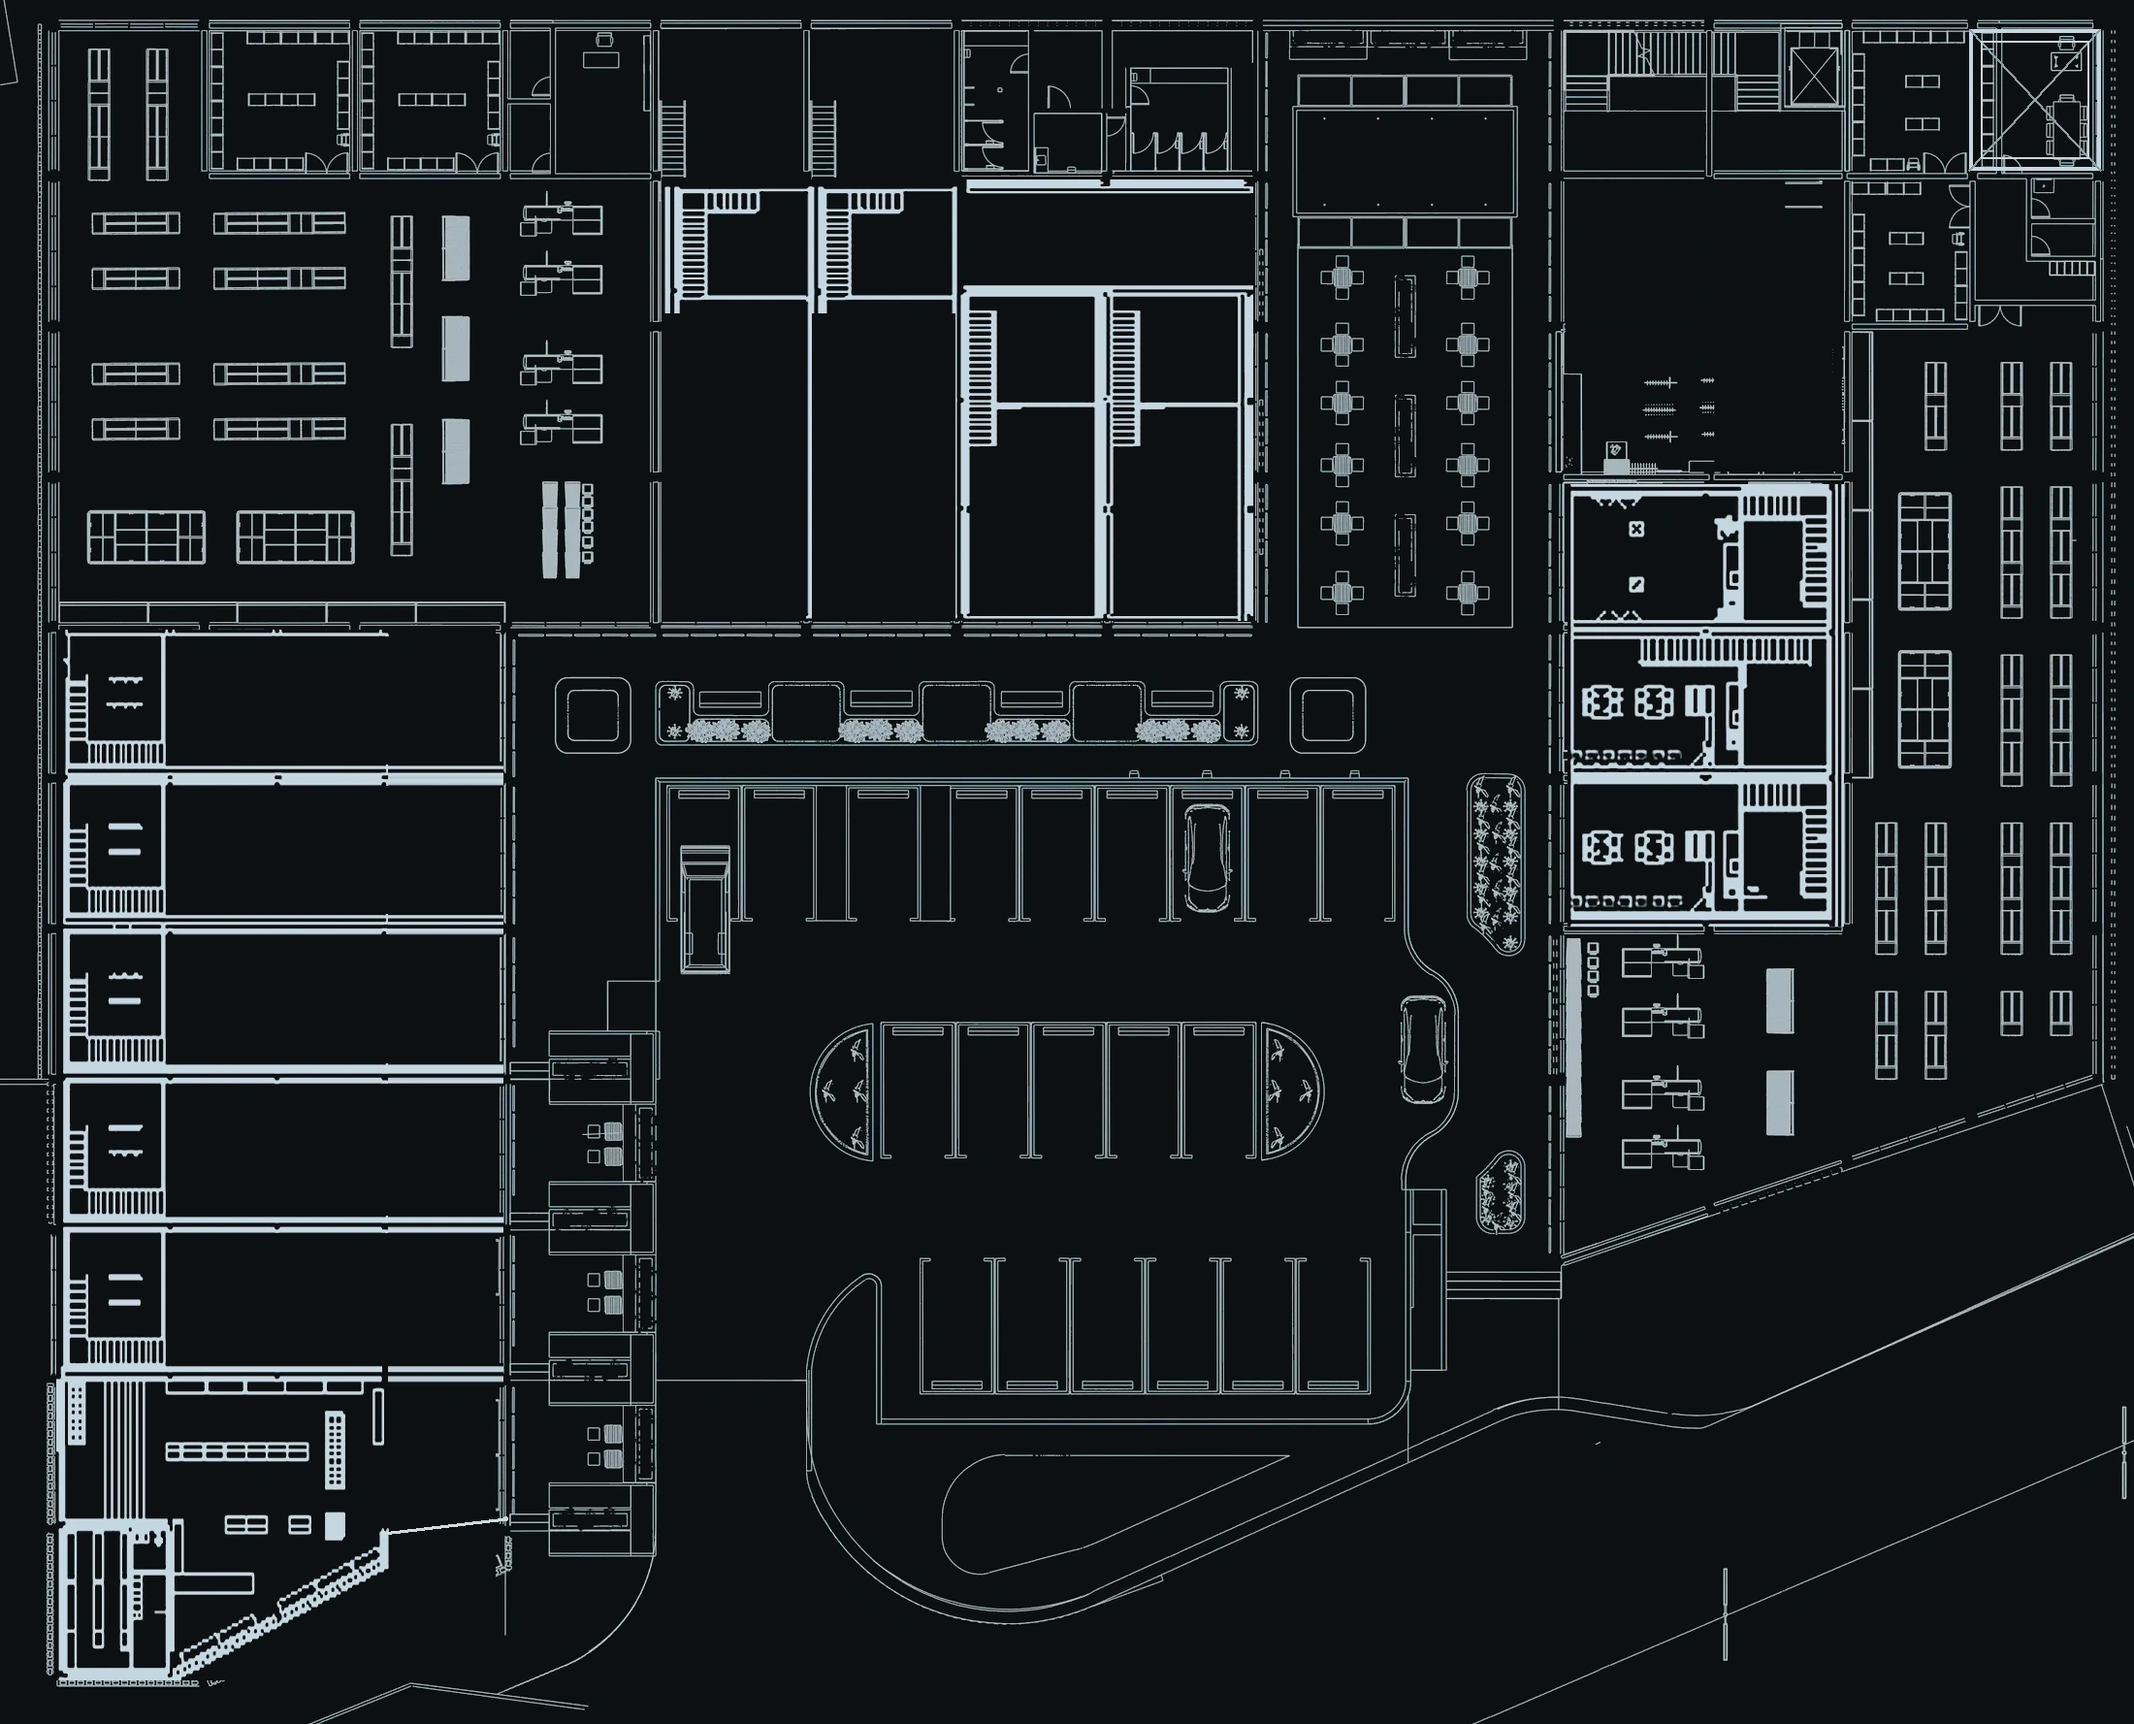
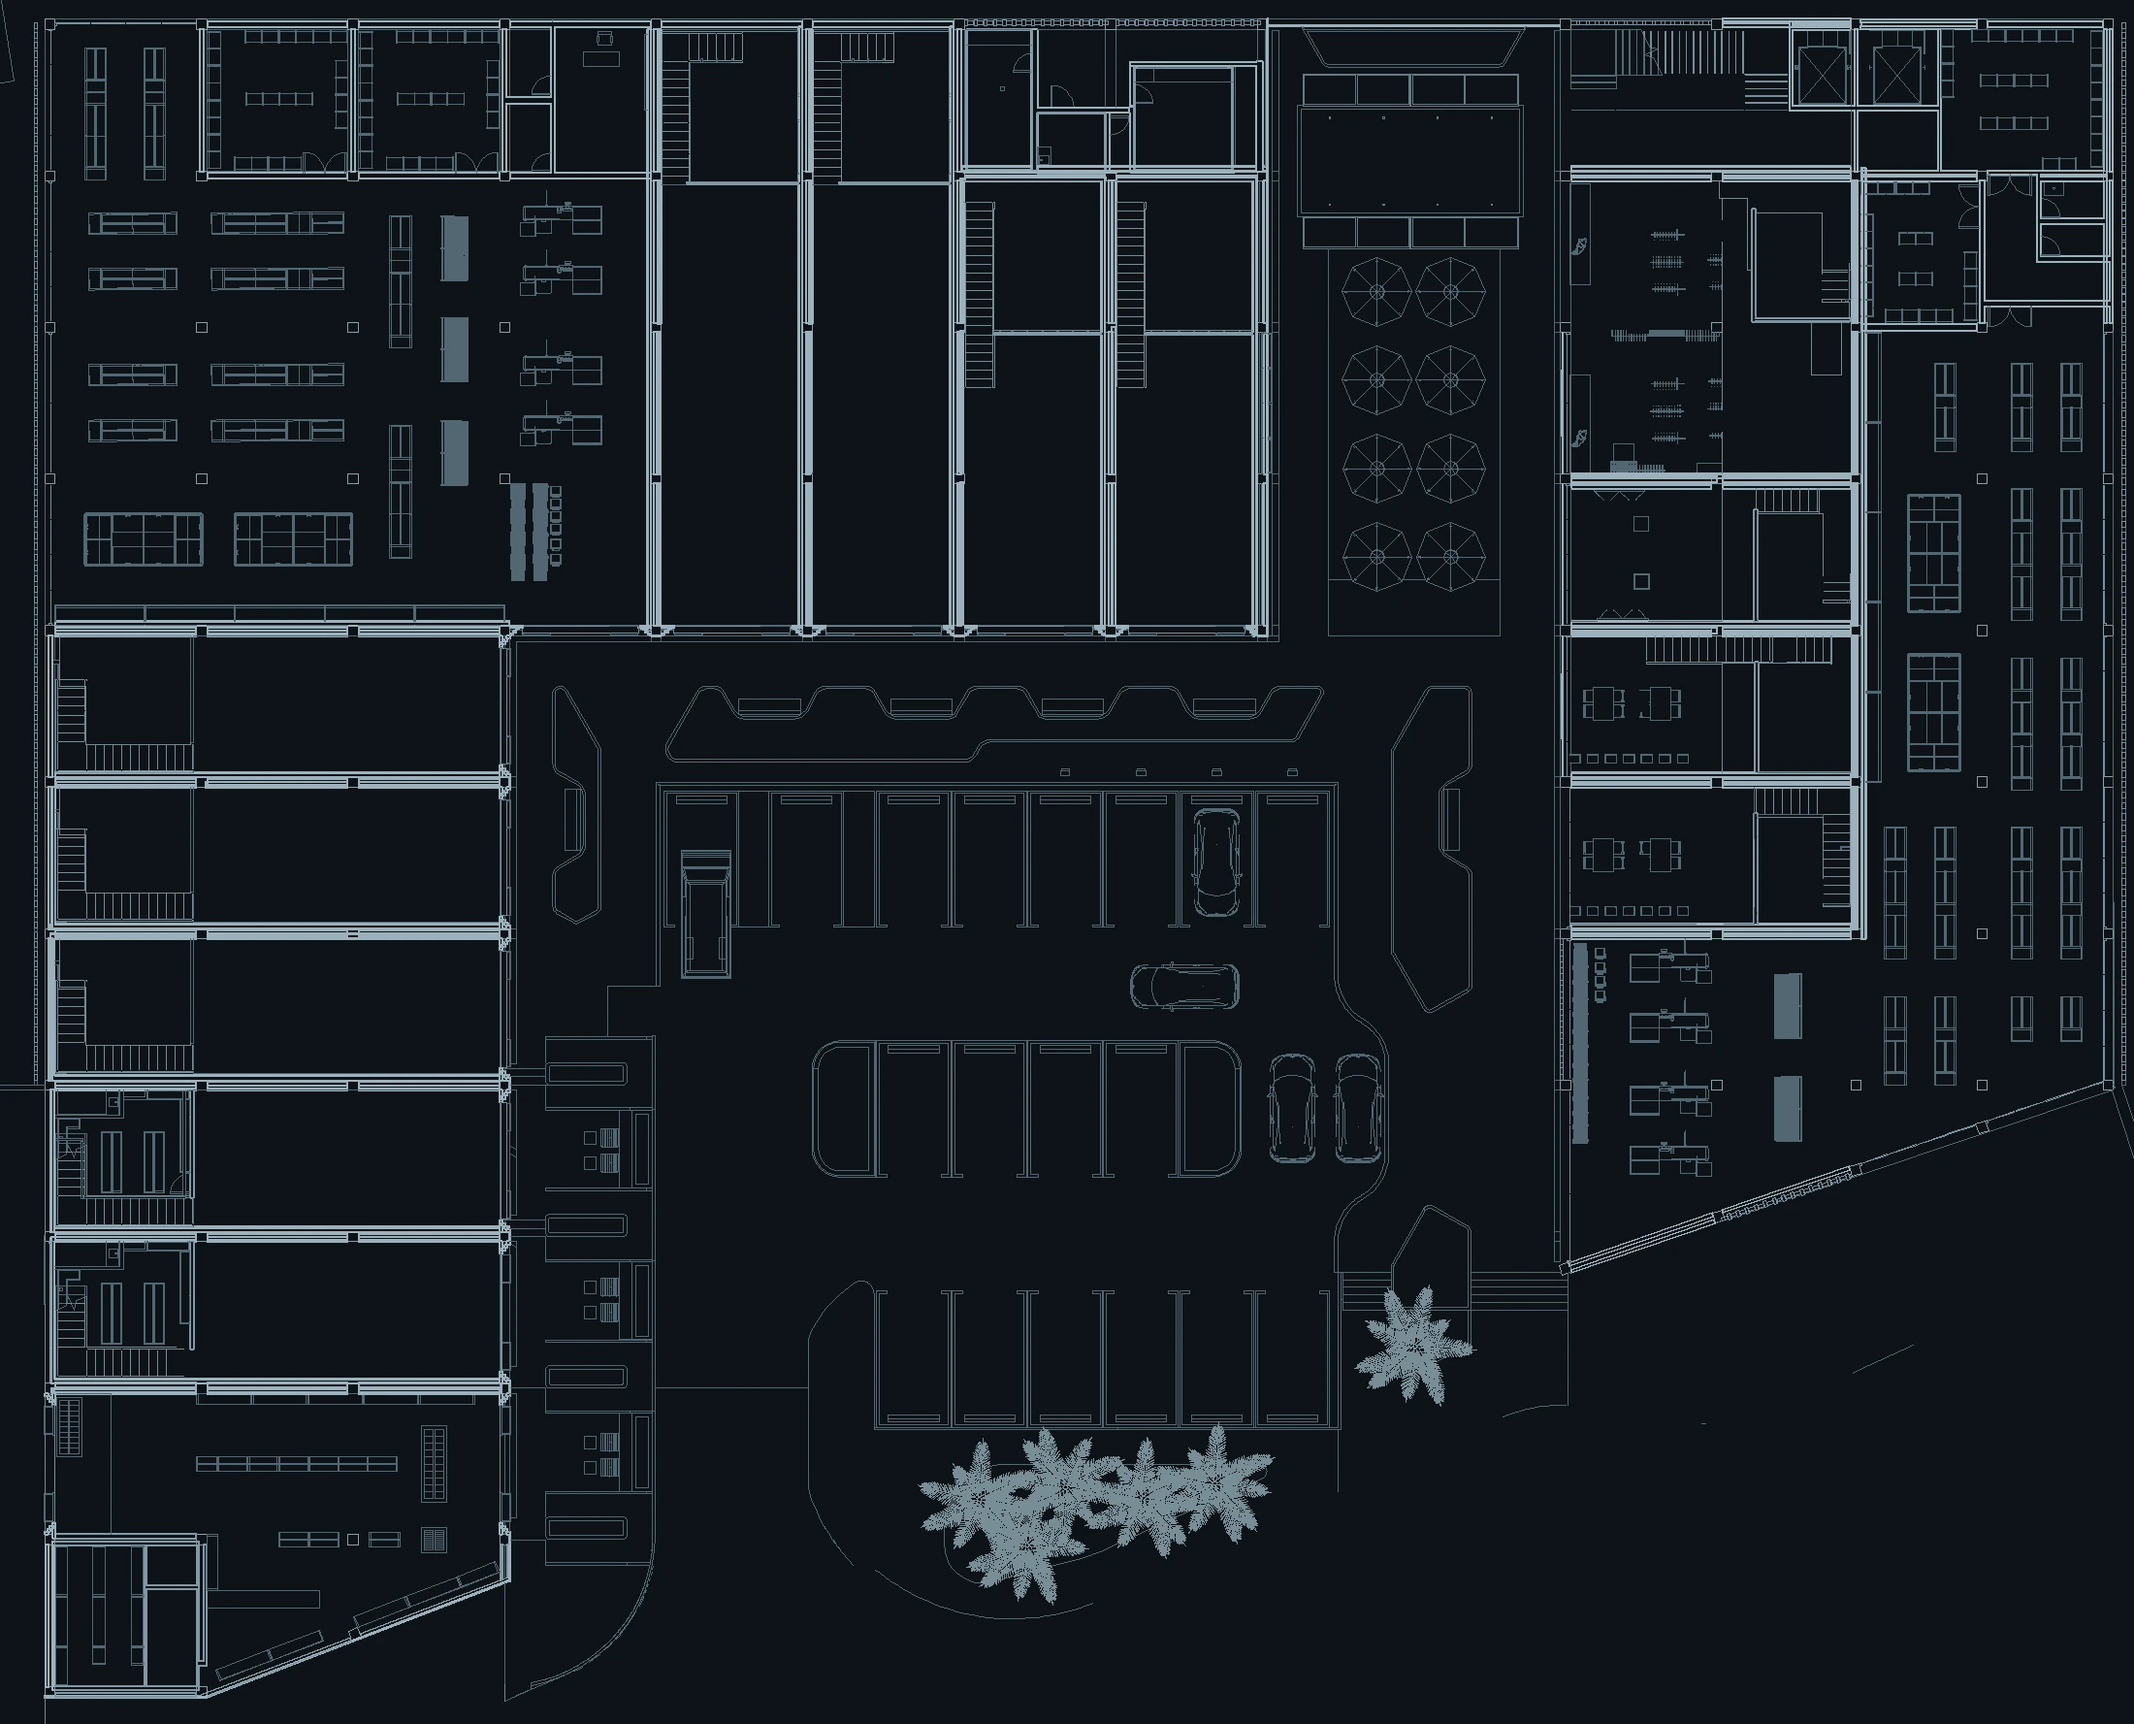
Actualizar planta interactiva de Rivers Mall con el DWG del 17 de noviembre

diff --git a/script.js b/script.js
@@ -93,12 +93,12 @@ const PANORAMAS = { of1: 'oficina-360.html', pkg: 'espacio-publico-360.html' };
 /* DWG floor-plan coordinates, aligned before the clockwise display rotation. */
 const R = (x1, y1, x2, y2) => [[x1, y1], [x2, y1], [x2, y2], [x1, y2]];
 const geoP1 = {
-  ara: { pts: [[65,60],[10,60],[10,11],[396,11],[457,214],[345,214],[345,105],[65,105]], c: [240,52] },
+  ara: { pts: [[64,60],[9,60],[9,9],[397,9],[464,209],[344,209],[344,101],[64,101]], c: [240,52] },
   asc: { pts: [[10,10],[60,10],[60,60],[10,60]], c: [35,35] },
-  '1': { pts: R(285,106,340,209) },
-  '2': { pts: R(229,106,285,209) },
-  '3': { pts: R(175,106,229,209) },
-  '4': { pts: R(65,106,175,209) },
+  '1': { pts: R(286,101,342,209) },
+  '2': { pts: R(230,101,286,209) },
+  '3': { pts: R(176,101,230,209) },
+  '4': { pts: R(64,101,176,209) },
   rest: { pts: R(10,215,229,309) },
   '5': { pts: R(65,320,229,376) },
   '6': { pts: R(65,376,229,430) },
@@ -110,7 +110,7 @@ const geoP1 = {
   '11': { pts: R(340,595,395,763) },
   '12': { pts: R(395,595,450,763) },
   '13': { pts: R(450,595,505,763) },
-  '14': { pts: [[505,595],[555,595],[560,640],[616,735],[616,763],[505,763]], c: [545,680] },
+  '14': { pts: [[507,595],[577,595],[619,705],[619,763],[507,763]], c: [553,680] },
   pkg: { pts: [[281,258],[352,258],[368,248],[403,248],[417,265],[487,265],[514,288],[514,438],[492,473],[514,480],[514,539],[281,539]] }
 };
 
@@ -286,7 +286,7 @@ const LEVELS = {
       const geometry = Object.fromEntries(Object.entries(geoP1).map(([id, g]) => [id, {
         pts: g.pts.map(rotate), ...(g.c ? { c: rotate(g.c) } : {})
       }]));
-      return renderCadPlan(units, geometry, 'assets/plano-piso1-cad.webp?v=77', 780, 630,
+      return renderCadPlan(units, geometry, 'assets/plano-piso1-cad.webp?v=78', 780, 630,
         'Planta arquitectónica del primer piso de Rivers Mall');
     }
   },

diff --git a/index.html b/index.html
@@ -281,6 +281,6 @@
 </div>
 
 <script src="https://cdnjs.cloudflare.com/ajax/libs/leaflet/1.9.4/leaflet.min.js"></script>
-<script src="script.js?v=77"></script>
+<script src="script.js?v=78"></script>
 </body>
 </html>
